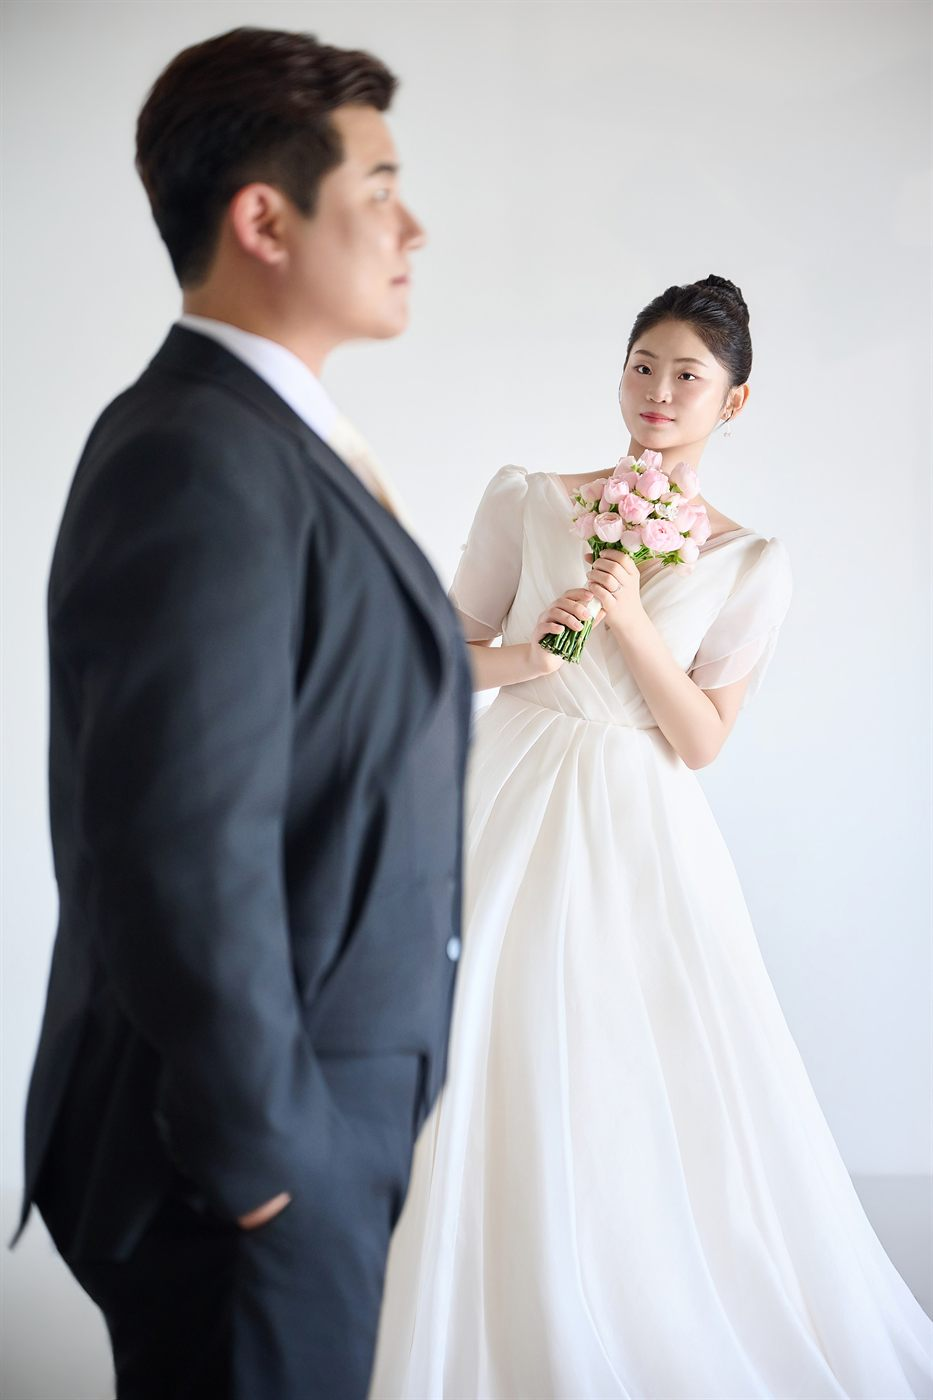
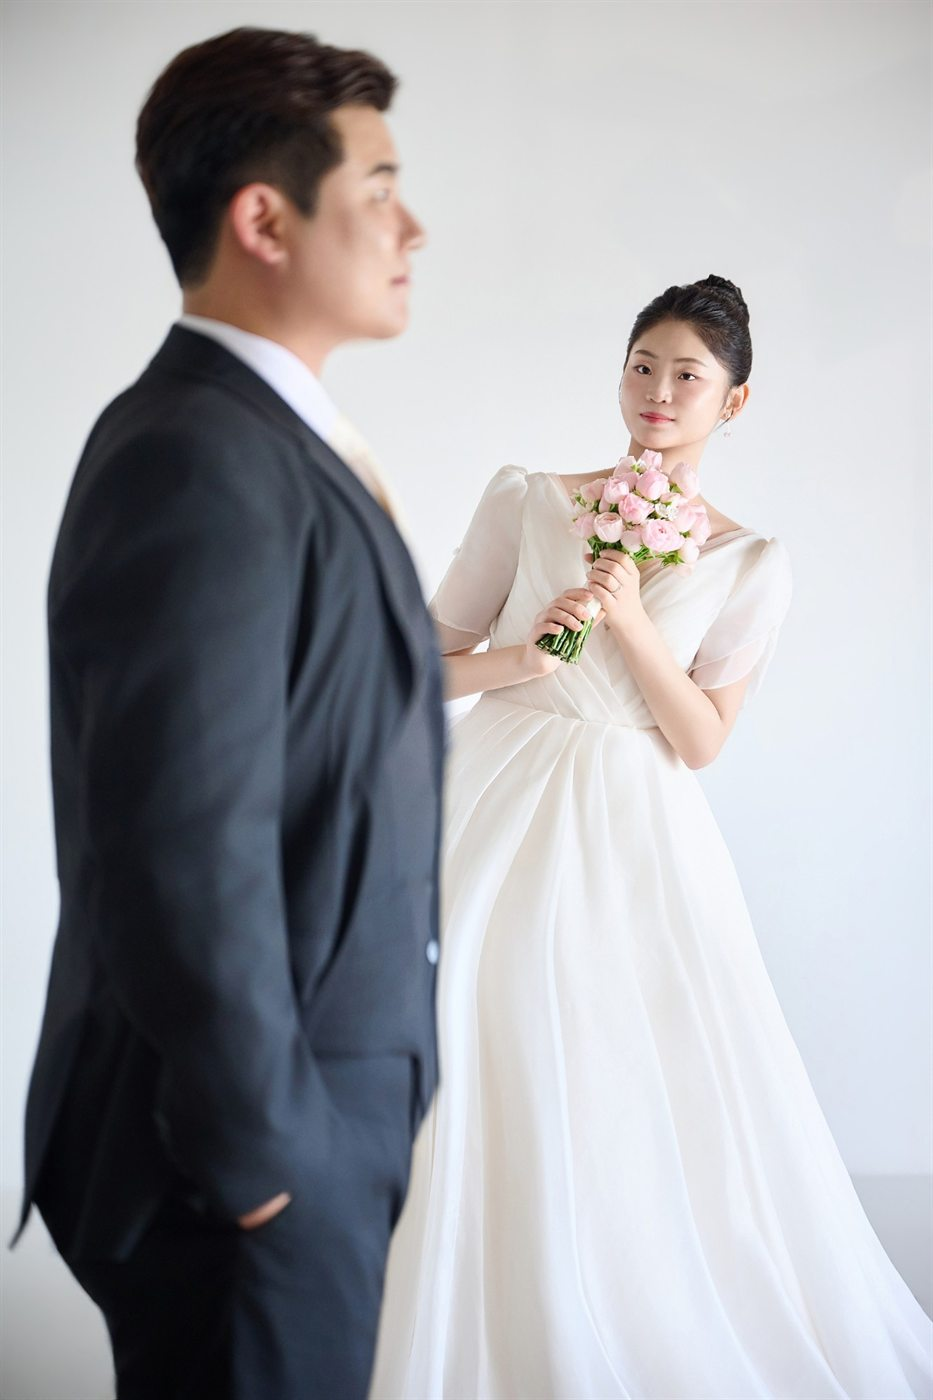
Update gallery photo 13, add meal info note
Swaps photo13.jpg (the focus-swap bouquet shot) for the final
version provided. Adds a meal note under Ceremony info: dining
opens 30 minutes before the ceremony, and children under 6 are
free of charge.

Changed region(s): [[0.2797, 0.3686, 0.6217, 0.8293], [0.0311, 0.5221, 0.0622, 0.645]]

diff --git a/index.html b/index.html
@@ -550,6 +550,14 @@ textarea::placeholder{ color:var(--ink-3); }
           <button class="btn" id="calIcs" type="button">아이폰 · 기타</button>
         </div>
       </div>
+
+      <div class="route">
+        <h5>식사 안내</h5>
+        <p>
+          식사는 예식 <b style="font-weight:600;color:var(--ink)">30분 전부터</b> 가능합니다.<br>
+          6세 미만 미취학 아동은 식사비가 들지 않으니 편하게 참석해 주세요.
+        </p>
+      </div>
     </section>
 
     <!-- ───────── 갤러리 ───────── -->
